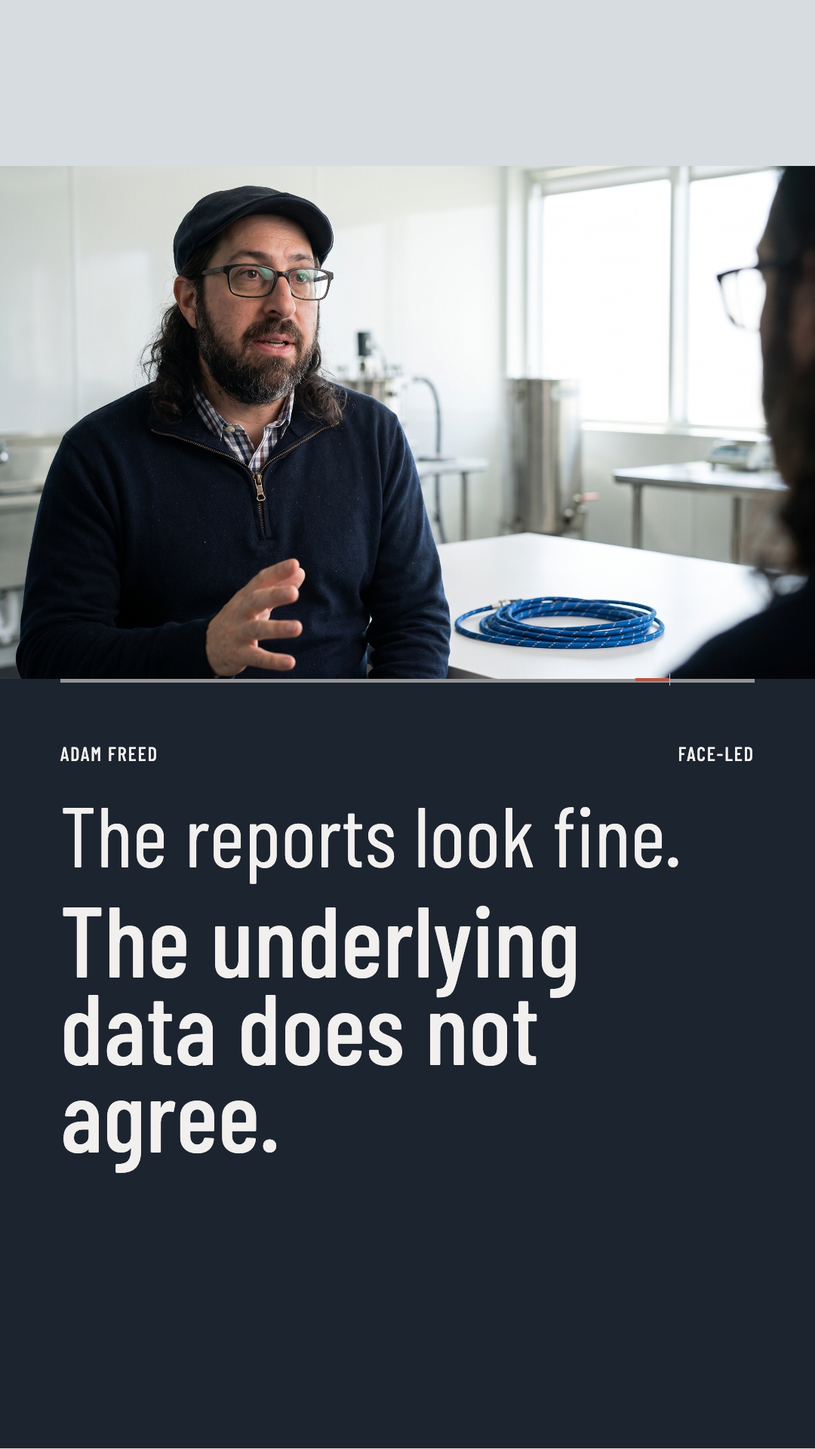
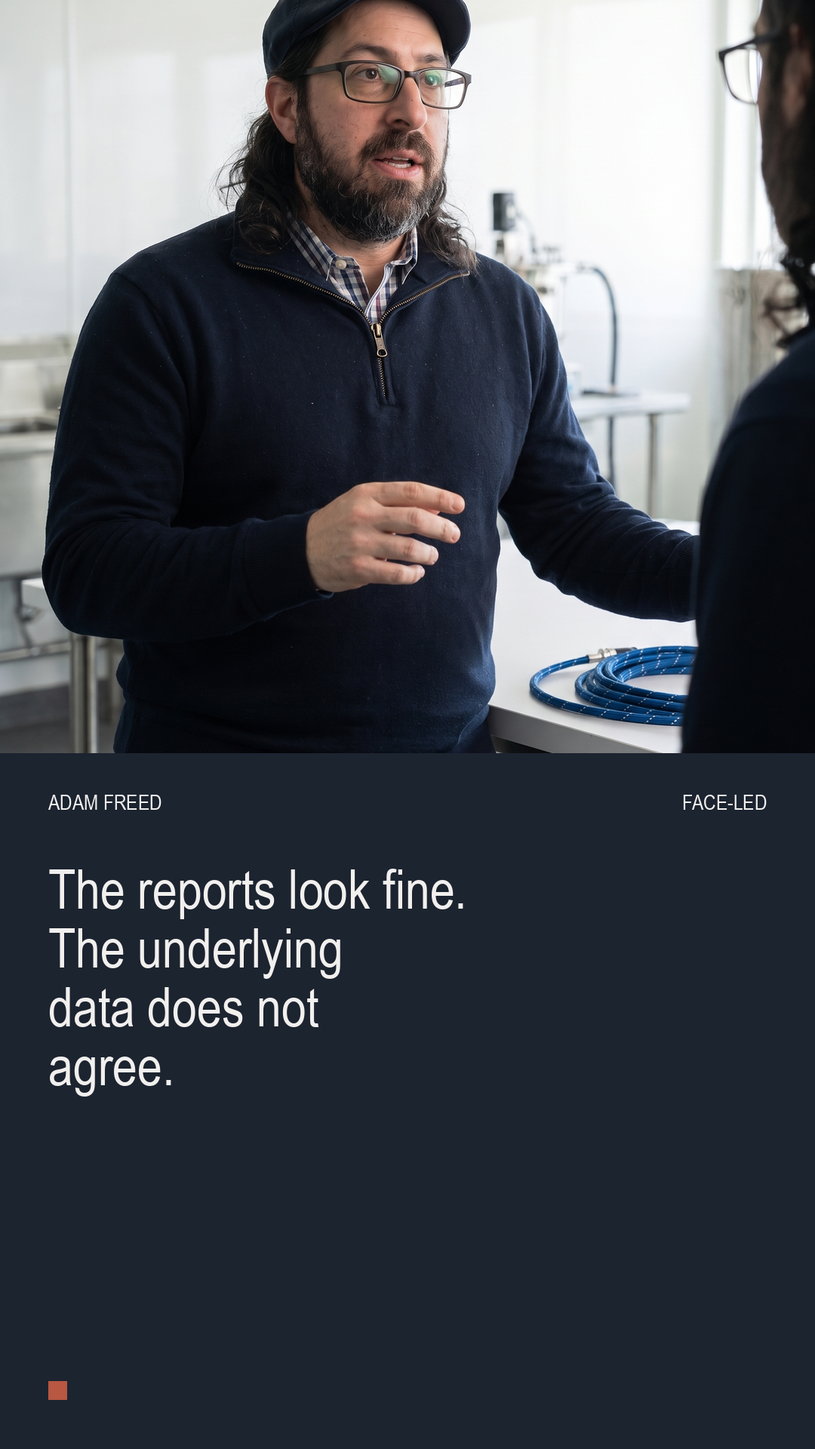
Adam Freed OS: photography range + Adam email kit
Add face-gated conversation range, rewrite Email for operator briefs, and stop recycling one hero across Website and Video.

diff --git a/adam-freed/os/application/email.html b/adam-freed/os/application/email.html
@@ -11,7 +11,7 @@
   <link rel="preconnect" href="https://fonts.gstatic.com" crossorigin>
   <link href="https://fonts.googleapis.com/css2?family=Barlow:wght@400;500;600;700&family=Barlow+Condensed:wght@400;500;600;700&display=swap" rel="stylesheet">
   <link rel="stylesheet" href="../assets/brand-therapy-os.css">
-  <link rel="stylesheet" href="../assets/adam-os.css?v=20260726">
+  <link rel="stylesheet" href="../assets/adam-os.css?v=20260726d">
   <script src="../assets/brand-therapy-os.js" defer></script>
 </head>
 <body data-page-id="C-05" data-os-url="https://brandtherapy.florianp.com/adam-freed/os/" data-context-url="https://brandtherapy.florianp.com/adam-freed/os/ai-context.md">
@@ -63,20 +63,20 @@
           </div>
         </header>
 
-        <section class="content-section content-section--visual-first" id="templates"><div class="section-headline"><p class="eyebrow">01</p><h2>Email examples</h2></div><p class="section-note">Three starters. Use the voice, then fill the brackets.</p><div class="email-gallery">
-    <article class="email-mock"><div class="email-chrome"><span>Subject: The reports look fine. The data does not.</span><span>Preview: One operator note on mismatched systems.</span></div><div class="email-body"><div class="email-masthead">Adam Freed / Operator Note 01</div><h3>The reports look fine. The data does not.</h3><p>If the source and the dashboard disagree, the work is not finished.</p><p>Start with the handoff that breaks first. Make that truth visible across every system that touches it.</p><a class="email-cta" href="#" data-confirm-links>Read the full note</a></div></article>
+        <section class="content-section content-section--visual-first" id="templates"><div class="section-headline"><p class="eyebrow">01</p><h2>Email examples</h2></div><p class="section-note">Operator brief, working session, and follow-up. Real Adam emails, not field-note theater.</p><div class="email-gallery">
+    <article class="email-mock email-mock--visual"><div class="email-chrome"><span>Subject: The reports look fine. The data does not.</span><span>Preview: One operator brief on mismatched systems.</span></div><div class="email-hero"><img src="../images/photography/email-header-crop.png" alt="Adam Freed in conversation"></div><div class="email-body"><p class="email-kicker">Adam Freed · Operator brief</p><h3>The reports look fine. The data does not.</h3><p>If the source and the dashboard disagree, the work is not finished.</p><p>Start with the handoff that breaks first. Make that truth visible across every system that touches it.</p><a class="email-cta" href="#" data-confirm-links>Read the full brief</a></div></article>
 
-    <article class="email-mock"><div class="email-chrome"><span>Subject: A working session on the numbers</span><span>Preview: Bring the reports that do not agree.</span></div><div class="email-body"><div class="email-masthead">Adam Freed / Invitation</div><h3>Bring the reports that do not agree.</h3><p>This is for founders who already suspect the dashboard is lying and want the real map.</p><p>[What we examine] · [Date] · [Who it is for]</p><a class="email-cta" href="#" data-confirm-links>Request details</a></div></article>
+    <article class="email-mock"><div class="email-chrome"><span>Subject: Working session on the numbers</span><span>Preview: Bring the reports that do not agree.</span></div><div class="email-body"><p class="email-kicker">Adam Freed · Working session</p><h3>Bring the reports that do not agree.</h3><p>For founders who already suspect the dashboard is lying and want the real map.</p><p>[What we examine] · [Date] · [Who should be in the room]</p><div class="email-inline-photo"><img src="../images/photography/reviewing-evidence.png" alt="Adam reviewing evidence"></div><a class="email-cta" href="#" data-confirm-links>Request a session</a></div></article>
 
-    <article class="email-mock"><div class="email-chrome"><span>Subject: Good talking with you</span><span>Preview: One next step from our conversation.</span></div><div class="email-body"><div class="email-masthead">Personal note</div><h3>Keep the useful part moving.</h3><p>[Name],</p><p>The break I kept thinking about was [specific handoff]. The next step I would take: [one useful action].</p><p>Adam</p></div></article>
-    </div></section><section class="content-section" id="rules"><div class="section-headline"><p class="eyebrow">02</p><h2>Keep it consistent</h2></div><div class="rule-grid"><article><h3>Subject line</h3><ul class="clean-list"><li>Clear before clever</li><li>45 characters when possible</li><li>No false urgency</li><li>No mystery bait</li></ul></article><article><h3>Body</h3><ul class="clean-list"><li>One useful idea</li><li>Short paragraphs</li><li>One specific fact or example</li><li>One clear next action</li></ul></article></div></section><section class="content-section" id="signature"><div class="section-headline"><p class="eyebrow">03</p><h2>Email signature</h2></div><p class="section-note">Copy into the inbox. No logo until a mark exists.</p>
-    <div class="signature-gallery"><div class="email-signature"><strong>Adam Freed</strong><span class="signature-role">Cannabis data and operations advisor</span><a href="https://www.freedsolutions.com">freedsolutions.com</a> · <a href="https://www.linkedin.com/in/adam-freed-60173568">LinkedIn</a></div><div class="email-signature"><strong>Adam Freed</strong><span>Cannabis data and operations advisor</span><br><a href="https://www.freedsolutions.com">freedsolutions.com</a> · <a href="https://www.linkedin.com/in/adam-freed-60173568">LinkedIn</a></div></div>
+    <article class="email-mock"><div class="email-chrome"><span>Subject: Good talking with you</span><span>Preview: One next step from our conversation.</span></div><div class="email-body"><p class="email-kicker">Personal note</p><h3>Keep the useful part moving.</h3><p>[Name],</p><p>The break I kept thinking about was [specific handoff]. The next step I would take: [one useful action].</p><p>If useful, I can send a short agenda for a working session.</p><p>Adam</p></div></article>
+    </div></section><section class="content-section" id="rules"><div class="section-headline"><p class="eyebrow">02</p><h2>Keep it consistent</h2></div><div class="rule-grid"><article><h3>Subject line</h3><ul class="clean-list"><li>Clear before clever</li><li>Name the break, not a teaser</li><li>No false urgency</li><li>No mystery bait</li></ul></article><article><h3>Body</h3><ul class="clean-list"><li>One useful idea</li><li>Short paragraphs</li><li>One specific fact or handoff</li><li>One clear next action</li></ul></article></div></section><section class="content-section" id="signature"><div class="section-headline"><p class="eyebrow">03</p><h2>Email signature</h2></div><p class="section-note">Copy into the inbox. Cobalt for links. Coral stays off the signature.</p>
+    <div class="signature-gallery"><div class="email-signature"><strong>Adam Freed</strong><span class="signature-role">Independent cannabis data and operations advisor</span><a href="https://www.freedsolutions.com">freedsolutions.com</a> · <a href="https://www.linkedin.com/in/adam-freed-60173568">LinkedIn</a></div><div class="email-signature"><strong>Adam Freed</strong><span>Independent cannabis data and operations advisor</span><br><a href="https://www.freedsolutions.com">freedsolutions.com</a> · <a href="https://www.linkedin.com/in/adam-freed-60173568">LinkedIn</a></div></div>
 
     <div class="prompt-grid"><article class="prompt-card"><h3>Full signature</h3><pre class="signature-code" id="signature-full">&lt;table role=&quot;presentation&quot; cellpadding=&quot;0&quot; cellspacing=&quot;0&quot; style=&quot;font-family:Arial,sans-serif;color:#1C2430&quot;&gt;
   &lt;tr&gt;&lt;td style=&quot;padding:0 0 6px;font-size:18px;font-weight:700&quot;&gt;Adam Freed&lt;/td&gt;&lt;/tr&gt;
-  &lt;tr&gt;&lt;td style=&quot;padding:0 0 10px;color:#B85742;font-size:12px;font-weight:700&quot;&gt;Cannabis data and operations advisor&lt;/td&gt;&lt;/tr&gt;
+  &lt;tr&gt;&lt;td style=&quot;padding:0 0 10px;color:#004DC2;font-size:12px;font-weight:700&quot;&gt;Independent cannabis data and operations advisor&lt;/td&gt;&lt;/tr&gt;
   &lt;tr&gt;&lt;td style=&quot;font-size:13px&quot;&gt;&lt;a href=&quot;https://www.freedsolutions.com&quot; style=&quot;color:#004DC2&quot;&gt;freedsolutions.com&lt;/a&gt; · &lt;a href=&quot;https://www.linkedin.com/in/adam-freed-60173568&quot; style=&quot;color:#004DC2&quot;&gt;LinkedIn&lt;/a&gt;&lt;/td&gt;&lt;/tr&gt;
-&lt;/table&gt;</pre><button class="button" type="button" data-copy-target="signature-full">Copy signature code</button> <span data-copy-result aria-live="polite"></span></article><article class="prompt-card"><h3>Compact signature</h3><pre class="signature-code" id="signature-compact">&lt;p style=&quot;font-family:Arial,sans-serif;color:#1C2430;font-size:13px;line-height:1.45&quot;&gt;&lt;strong&gt;Adam Freed&lt;/strong&gt;&lt;br&gt;Cannabis data and operations advisor&lt;br&gt;&lt;a href=&quot;https://www.freedsolutions.com&quot; style=&quot;color:#004DC2&quot;&gt;freedsolutions.com&lt;/a&gt; · &lt;a href=&quot;https://www.linkedin.com/in/adam-freed-60173568&quot; style=&quot;color:#004DC2&quot;&gt;LinkedIn&lt;/a&gt;&lt;/p&gt;</pre><button class="button" type="button" data-copy-target="signature-compact">Copy signature code</button> <span data-copy-result aria-live="polite"></span></article></div>
+&lt;/table&gt;</pre><button class="button" type="button" data-copy-target="signature-full">Copy signature code</button> <span data-copy-result aria-live="polite"></span></article><article class="prompt-card"><h3>Compact signature</h3><pre class="signature-code" id="signature-compact">&lt;p style=&quot;font-family:Arial,sans-serif;color:#1C2430;font-size:13px;line-height:1.45&quot;&gt;&lt;strong&gt;Adam Freed&lt;/strong&gt;&lt;br&gt;Independent cannabis data and operations advisor&lt;br&gt;&lt;a href=&quot;https://www.freedsolutions.com&quot; style=&quot;color:#004DC2&quot;&gt;freedsolutions.com&lt;/a&gt; · &lt;a href=&quot;https://www.linkedin.com/in/adam-freed-60173568&quot; style=&quot;color:#004DC2&quot;&gt;LinkedIn&lt;/a&gt;&lt;/p&gt;</pre><button class="button" type="button" data-copy-target="signature-compact">Copy signature code</button> <span data-copy-result aria-live="polite"></span></article></div>
     </section>
 
         <nav class="previous-next" aria-label="Previous and next pages"><a href="website-ux.html" data-direction="previous"><small>Previous page</small><strong>Website</strong></a></nav>

diff --git a/adam-freed/os/identity/personal-branding.html b/adam-freed/os/identity/personal-branding.html
@@ -11,7 +11,7 @@
   <link rel="preconnect" href="https://fonts.gstatic.com" crossorigin>
   <link href="https://fonts.googleapis.com/css2?family=Barlow:wght@400;500;600;700&family=Barlow+Condensed:wght@400;500;600;700&display=swap" rel="stylesheet">
   <link rel="stylesheet" href="../assets/brand-therapy-os.css">
-  <link rel="stylesheet" href="../assets/adam-os.css?v=20260726">
+  <link rel="stylesheet" href="../assets/adam-os.css?v=20260726d">
   <script src="../assets/brand-therapy-os.js" defer></script>
 </head>
 <body data-page-id="B-06" data-os-url="https://brandtherapy.florianp.com/adam-freed/os/" data-context-url="https://brandtherapy.florianp.com/adam-freed/os/ai-context.md">
@@ -63,7 +63,7 @@
           </div>
         </header>
 
-        <details class="page-toc" data-page-toc open><summary><strong>On this page</strong></summary><ol><li><a href="#presence">How Adam shows up</a></li><li><a href="#character-sheet">Character Sheet</a></li><li><a href="#use">How to use it</a></li></ol></details><section class="content-section" id="presence"><div class="section-headline"><p class="eyebrow">01</p><h2>How Adam shows up</h2></div><div class="principle-grid"><article><h3>Presence</h3><p>Calm operator peer energy. Present in the room, exact, lightly witty.</p></article><article><h3>Wardrobe</h3><p>Primary Direction 2 operator outfit locked; bizcasual is alternate only.</p></article><article><h3>Behavior</h3><p>Do the work: explain, listen, review evidence, hand off a finding.</p></article><article><h3>Aesthetic</h3><p>Bright Paper White operations world with Cable Cobalt connection cues.</p></article></div></section><section class="content-section" id="character-sheet"><div class="section-headline"><p class="eyebrow">02</p><h2>Character Sheet</h2></div><div class="character-sheet"><figure class="character-board character-board--face"><img src="../images/likeness/adam-freed-v1-anchor.png" alt="Adam face canon"><figcaption>Face canon. Keep eye line and hat line consistent across angles.</figcaption></figure><div class="character-sheet__outfits"><figure class="character-board character-board--outfit"><img src="../images/likeness/adam-freed-fullbody-primary.png" alt="Primary operator outfit"><figcaption>Primary operator outfit</figcaption></figure><figure class="character-board character-board--outfit"><img src="../images/likeness/adam-freed-fullbody-bizcasual.png" alt="Alternate outfit reference"><figcaption>Alternate outfit. Use only when separately requested.</figcaption></figure></div></div></section><section class="content-section" id="use"><div class="section-headline"><p class="eyebrow">03</p><h2>How to use it</h2></div><ul class="clean-list"><li>Use the approved face canon for any recognizable Adam image</li><li>Default to the navy quarter-zip operator outfit</li><li>Show Adam in conversation or work with operators</li><li>Never upload the temporary stylescape as a likeness seed</li></ul></section>
+        <details class="page-toc" data-page-toc open><summary><strong>On this page</strong></summary><ol><li><a href="#presence">How Adam shows up</a></li><li><a href="#character-sheet">Character Sheet</a></li><li><a href="#photography">Photography range</a></li><li><a href="#use">How to use it</a></li></ol></details><section class="content-section" id="presence"><div class="section-headline"><p class="eyebrow">01</p><h2>How Adam shows up</h2></div><div class="principle-grid"><article><h3>Presence</h3><p>Calm operator peer energy. Present in the room, exact, lightly witty.</p></article><article><h3>Wardrobe</h3><p>Primary Direction 2 operator outfit locked; bizcasual is alternate only.</p></article><article><h3>Behavior</h3><p>Do the work: explain, listen, review evidence, hand off a finding.</p></article><article><h3>Aesthetic</h3><p>Bright Paper White operations world with Cable Cobalt connection cues.</p></article></div></section><section class="content-section" id="character-sheet"><div class="section-headline"><p class="eyebrow">02</p><h2>Character Sheet</h2></div><div class="character-sheet"><figure class="character-board character-board--face"><img src="../images/likeness/adam-freed-v1-anchor.png" alt="Adam face canon"><figcaption>Face canon. Keep eye line and hat line consistent across angles.</figcaption></figure><div class="character-sheet__outfits"><figure class="character-board character-board--outfit"><img src="../images/likeness/adam-freed-fullbody-primary.png" alt="Primary operator outfit"><figcaption>Primary operator outfit</figcaption></figure><figure class="character-board character-board--outfit"><img src="../images/likeness/adam-freed-fullbody-bizcasual.png" alt="Alternate outfit reference"><figcaption>Alternate outfit. Use only when separately requested.</figcaption></figure></div></div></section><section class="content-section content-section--visual-first" id="photography"><div class="section-headline"><p class="eyebrow">03</p><h2>Photography range</h2></div><p class="section-note">Approved face-gated scenes. Same man, different jobs.</p><div class="photo-range-grid"><figure class="example-card"><img src="../images/identity/adam-freed-direction-2-hd-hero-gate4-candidate.png" alt="Adam Operator conversation"><figcaption><strong>Operator conversation</strong> Primary identity hero. Adam mid-explanation with an operator.</figcaption></figure><figure class="example-card"><img src="../images/photography/listening-across-table.png" alt="Adam Listening"><figcaption><strong>Listening</strong> Attentive across the table. Use when the brief is intake or diagnosis.</figcaption></figure><figure class="example-card"><img src="../images/photography/corridor-handoff.png" alt="Adam Handoff"><figcaption><strong>Handoff</strong> Clipboard and corridor. Use when truth moves between people.</figcaption></figure><figure class="example-card"><img src="../images/photography/reviewing-evidence.png" alt="Adam Evidence review"><figcaption><strong>Evidence review</strong> Papers on the table. Use for findings and working sessions.</figcaption></figure><figure class="example-card"><img src="../images/photography/walk-talk-floor.png" alt="Adam Walk and talk"><figcaption><strong>Walk and talk</strong> Production floor conversation. Use for operational context.</figcaption></figure><figure class="example-card"><img src="../images/photography/speaking-context-portrait.png" alt="Adam Speaking crop"><figcaption><strong>Speaking crop</strong> Portrait-in-context for video and social photo variants.</figcaption></figure></div></section><section class="content-section" id="use"><div class="section-headline"><p class="eyebrow">04</p><h2>How to use it</h2></div><ul class="clean-list"><li>Use the approved face canon for any recognizable Adam image</li><li>Pick from the photography range. Do not recycle one hero for every surface</li><li>Default to the navy quarter-zip operator outfit</li><li>Show Adam in conversation or work with operators</li><li>Never upload the temporary stylescape as a likeness seed</li></ul></section>
 
         <nav class="previous-next" aria-label="Previous and next pages"><a href="voice.html" data-direction="previous"><small>Previous page</small><strong>Voice and Writing</strong></a><a href="../application/index.html" data-direction="next"><small>Next page</small><strong>Applications Overview</strong></a></nav>
       </article>

diff --git a/adam-freed/os/application/website-ux.html b/adam-freed/os/application/website-ux.html
@@ -11,7 +11,7 @@
   <link rel="preconnect" href="https://fonts.gstatic.com" crossorigin>
   <link href="https://fonts.googleapis.com/css2?family=Barlow:wght@400;500;600;700&family=Barlow+Condensed:wght@400;500;600;700&display=swap" rel="stylesheet">
   <link rel="stylesheet" href="../assets/brand-therapy-os.css">
-  <link rel="stylesheet" href="../assets/adam-os.css?v=20260726">
+  <link rel="stylesheet" href="../assets/adam-os.css?v=20260726d">
   <script src="../assets/brand-therapy-os.js" defer></script>
 </head>
 <body data-page-id="C-04" data-os-url="https://brandtherapy.florianp.com/adam-freed/os/" data-context-url="https://brandtherapy.florianp.com/adam-freed/os/ai-context.md">
@@ -64,10 +64,10 @@
         </header>
 
         <section class="content-section content-section--visual-first" id="desktop"><div class="section-headline"><p class="eyebrow">01</p><h2>Homepage</h2></div><p class="section-note">How the brand should feel on the web.</p>
-    <div class="site-prototype"><div class="site-browser-bar"><i></i><i></i><i></i><span>freedsolutions.com</span></div><div class="site-home"><div class="site-home-copy"><nav class="site-nav"><strong>Adam Freed</strong><span>Advisory&nbsp;&nbsp; Writing&nbsp;&nbsp; Contact</span></nav><div><p class="asset-kicker">On Speaking Terms</p><h3 class="site-display">Get the systems talking.</h3><p>Independent cannabis data and operations advisory for founders who want numbers they can trust.</p></div><span>Start a conversation</span></div><div class="site-home-image"><img src="../images/identity/adam-freed-direction-2-hd-hero-gate4-candidate.png" alt="Adam Freed website hero"></div></div></div>
+    <div class="site-prototype"><div class="site-browser-bar"><i></i><i></i><i></i><span>freedsolutions.com</span></div><div class="site-home"><div class="site-home-copy"><nav class="site-nav"><strong>Adam Freed</strong><span>Advisory&nbsp;&nbsp; Writing&nbsp;&nbsp; Contact</span></nav><div><p class="asset-kicker">On Speaking Terms</p><h3 class="site-display">Get the systems talking.</h3><p>Independent cannabis data and operations advisory for founders who want numbers they can trust.</p></div><span>Start a conversation</span></div><div class="site-home-image"><img src="../images/photography/website-wide-conversation.png" alt="Adam Freed website hero"></div></div></div>
     </section><section class="content-section" id="mobile"><div class="section-headline"><p class="eyebrow">02</p><h2>Mobile</h2></div>
-    <div class="mobile-prototype"><img src="../images/identity/adam-freed-direction-2-hd-hero-gate4-candidate.png" alt="Adam Freed in conversation" style="object-position:center top"><div class="mobile-prototype-copy"><p class="asset-kicker">Freed Solutions</p><h3>Get the systems talking.</h3><p>Data Integrity for founder-led cannabis teams.</p></div></div>
-    </section><section class="content-section" id="keep"><div class="section-headline"><p class="eyebrow">03</p><h2>Keep it consistent</h2></div><div class="rule-grid"><article><h3>Keep</h3><ul class="clean-list"><li>One thesis above the fold</li><li>Adam in conversation, not a solitary founder portrait</li><li>Paper White field, Cable Cobalt accent, Barlow Condensed headlines</li><li>One clear next action</li></ul></article><article><h3>Avoid</h3><ul class="clean-list"><li>Dashboard theater or code screens as the hero</li><li>Cannabis lifestyle or leaf motifs</li><li>Generic consultant stock</li><li>More than one primary CTA on the first screen</li></ul></article></div></section>
+    <div class="mobile-prototype"><img src="../images/photography/speaking-context-portrait.png" alt="Adam Freed in conversation" style="object-position:center top"><div class="mobile-prototype-copy"><p class="asset-kicker">Freed Solutions</p><h3>Get the systems talking.</h3><p>Data Integrity for founder-led cannabis teams.</p></div></div>
+    </section><section class="content-section" id="keep"><div class="section-headline"><p class="eyebrow">03</p><h2>Keep it consistent</h2></div><div class="rule-grid"><article><h3>Keep</h3><ul class="clean-list"><li>One thesis above the fold</li><li>Rotate approved photography. Do not reuse one crop everywhere</li><li>Adam in conversation, not a solitary founder portrait</li><li>Paper White field, Cable Cobalt accent, Barlow Condensed headlines</li><li>One clear next action</li></ul></article><article><h3>Avoid</h3><ul class="clean-list"><li>Dashboard theater or code screens as the hero</li><li>Cannabis lifestyle or leaf motifs</li><li>Generic consultant stock</li><li>More than one primary CTA on the first screen</li></ul></article></div></section>
 
         <nav class="previous-next" aria-label="Previous and next pages"><a href="video-covers.html" data-direction="previous"><small>Previous page</small><strong>Video Covers</strong></a><a href="email.html" data-direction="next"><small>Next page</small><strong>Email</strong></a></nav>
       </article>

diff --git a/adam-freed/os/assets/adam-os.css b/adam-freed/os/assets/adam-os.css
@@ -417,7 +417,7 @@
   min-height: 36rem;
   color: #1C2430;
   border: 1px solid var(--line);
-  background: #F2F0EE;
+  background: #FAFAF8;
 }
 
 .email-chrome {
@@ -426,34 +426,66 @@
   padding: 1rem;
   color: #4e5660;
   border-bottom: 1px solid var(--line);
-  background: #E8E4E0;
+  background: #F2F0EE;
   font-size: 0.72rem;
 }
 
-.email-body {
-  padding: 2rem;
+.email-hero {
+  aspect-ratio: 21 / 9;
+  overflow: hidden;
+  background: #E8E4E0;
 }
 
-.email-masthead {
-  padding-bottom: 1.5rem;
-  color: #1C2430;
-  border-bottom: 0.25rem solid #B85742;
-  font-family: "Barlow Condensed", "Arial Narrow", sans-serif;
-  font-size: 1.4rem;
+.email-hero img {
+  display: block;
+  width: 100%;
+  height: 100%;
+  object-fit: cover;
+  object-position: center 30%;
+}
+
+.email-inline-photo {
+  margin: 1.25rem 0 0.25rem;
+  aspect-ratio: 16 / 9;
+  overflow: hidden;
+  background: #E8E4E0;
+}
+
+.email-inline-photo img {
+  display: block;
+  width: 100%;
+  height: 100%;
+  object-fit: cover;
+  object-position: center 25%;
+}
+
+.email-body {
+  padding: 1.6rem 1.75rem 2rem;
+}
+
+.email-kicker {
+  margin: 0 0 0.85rem;
+  color: #004DC2;
+  font-family: "Barlow", sans-serif;
+  font-size: 0.72rem;
+  font-weight: 700;
+  letter-spacing: 0.04em;
   text-transform: uppercase;
 }
 
 .email-body h3 {
-  margin: 2.4rem 0 1rem;
+  margin: 0 0 1rem;
   font-family: "Barlow Condensed", "Arial Narrow", sans-serif;
-  font-size: 2.6rem;
-  font-weight: 400;
-  line-height: 0.95;
-  text-transform: uppercase;
+  font-size: 2.1rem;
+  font-weight: 500;
+  line-height: 1.02;
+  text-transform: none;
+  color: #1C2430;
 }
 
 .email-body p {
   font-size: 0.9rem;
+  line-height: 1.45;
 }
 
 .email-cta {
@@ -461,10 +493,22 @@
   margin-top: 1rem;
   padding: 0.75rem 1rem;
   color: #F2F0EE;
-  background: #1C2430;
+  background: #004DC2;
   font-size: 0.78rem;
   font-weight: 700;
   text-decoration: none;
+}
+
+.photo-range-grid {
+  display: grid;
+  grid-template-columns: repeat(3, minmax(12rem, 1fr));
+  gap: 1rem;
+}
+
+@media (max-width: 900px) {
+  .photo-range-grid {
+    grid-template-columns: repeat(2, minmax(10rem, 1fr));
+  }
 }
 
 .signature-gallery {
@@ -490,7 +534,7 @@
 .email-signature .signature-role {
   display: block;
   margin: 0.2rem 0 1rem;
-  color: #B85742;
+  color: #004DC2;
   font-size: 0.78rem;
   font-weight: 700;
 }

diff --git a/adam-freed/os/application/index.html b/adam-freed/os/application/index.html
@@ -11,7 +11,7 @@
   <link rel="preconnect" href="https://fonts.gstatic.com" crossorigin>
   <link href="https://fonts.googleapis.com/css2?family=Barlow:wght@400;500;600;700&family=Barlow+Condensed:wght@400;500;600;700&display=swap" rel="stylesheet">
   <link rel="stylesheet" href="../assets/brand-therapy-os.css">
-  <link rel="stylesheet" href="../assets/adam-os.css?v=20260726">
+  <link rel="stylesheet" href="../assets/adam-os.css?v=20260726d">
   <script src="../assets/brand-therapy-os.js" defer></script>
 </head>
 <body data-page-id="C-00" data-os-url="https://brandtherapy.florianp.com/adam-freed/os/" data-context-url="https://brandtherapy.florianp.com/adam-freed/os/ai-context.md">

diff --git a/adam-freed/os/application/social.html b/adam-freed/os/application/social.html
@@ -11,7 +11,7 @@
   <link rel="preconnect" href="https://fonts.gstatic.com" crossorigin>
   <link href="https://fonts.googleapis.com/css2?family=Barlow:wght@400;500;600;700&family=Barlow+Condensed:wght@400;500;600;700&display=swap" rel="stylesheet">
   <link rel="stylesheet" href="../assets/brand-therapy-os.css">
-  <link rel="stylesheet" href="../assets/adam-os.css?v=20260726">
+  <link rel="stylesheet" href="../assets/adam-os.css?v=20260726d">
   <script src="../assets/brand-therapy-os.js" defer></script>
 </head>
 <body data-page-id="C-02" data-os-url="https://brandtherapy.florianp.com/adam-freed/os/" data-context-url="https://brandtherapy.florianp.com/adam-freed/os/ai-context.md">

diff --git a/adam-freed/os/application/video-covers.html b/adam-freed/os/application/video-covers.html
@@ -11,7 +11,7 @@
   <link rel="preconnect" href="https://fonts.gstatic.com" crossorigin>
   <link href="https://fonts.googleapis.com/css2?family=Barlow:wght@400;500;600;700&family=Barlow+Condensed:wght@400;500;600;700&display=swap" rel="stylesheet">
   <link rel="stylesheet" href="../assets/brand-therapy-os.css">
-  <link rel="stylesheet" href="../assets/adam-os.css?v=20260726">
+  <link rel="stylesheet" href="../assets/adam-os.css?v=20260726d">
   <script src="../assets/brand-therapy-os.js" defer></script>
 </head>
 <body data-page-id="C-03" data-os-url="https://brandtherapy.florianp.com/adam-freed/os/" data-context-url="https://brandtherapy.florianp.com/adam-freed/os/ai-context.md">

diff --git a/adam-freed/os/identity/index.html b/adam-freed/os/identity/index.html
@@ -11,7 +11,7 @@
   <link rel="preconnect" href="https://fonts.gstatic.com" crossorigin>
   <link href="https://fonts.googleapis.com/css2?family=Barlow:wght@400;500;600;700&family=Barlow+Condensed:wght@400;500;600;700&display=swap" rel="stylesheet">
   <link rel="stylesheet" href="../assets/brand-therapy-os.css">
-  <link rel="stylesheet" href="../assets/adam-os.css?v=20260726">
+  <link rel="stylesheet" href="../assets/adam-os.css?v=20260726d">
   <script src="../assets/brand-therapy-os.js" defer></script>
 </head>
 <body data-page-id="B-01" data-os-url="https://brandtherapy.florianp.com/adam-freed/os/" data-context-url="https://brandtherapy.florianp.com/adam-freed/os/ai-context.md">

diff --git a/adam-freed/os/identity/logo.html b/adam-freed/os/identity/logo.html
@@ -11,7 +11,7 @@
   <link rel="preconnect" href="https://fonts.gstatic.com" crossorigin>
   <link href="https://fonts.googleapis.com/css2?family=Barlow:wght@400;500;600;700&family=Barlow+Condensed:wght@400;500;600;700&display=swap" rel="stylesheet">
   <link rel="stylesheet" href="../assets/brand-therapy-os.css">
-  <link rel="stylesheet" href="../assets/adam-os.css?v=20260726">
+  <link rel="stylesheet" href="../assets/adam-os.css?v=20260726d">
   <script src="../assets/brand-therapy-os.js" defer></script>
 </head>
 <body data-page-id="B-03" data-os-url="https://brandtherapy.florianp.com/adam-freed/os/" data-context-url="https://brandtherapy.florianp.com/adam-freed/os/ai-context.md">

diff --git a/adam-freed/os/identity/signature.html b/adam-freed/os/identity/signature.html
@@ -11,7 +11,7 @@
   <link rel="preconnect" href="https://fonts.gstatic.com" crossorigin>
   <link href="https://fonts.googleapis.com/css2?family=Barlow:wght@400;500;600;700&family=Barlow+Condensed:wght@400;500;600;700&display=swap" rel="stylesheet">
   <link rel="stylesheet" href="../assets/brand-therapy-os.css">
-  <link rel="stylesheet" href="../assets/adam-os.css?v=20260726">
+  <link rel="stylesheet" href="../assets/adam-os.css?v=20260726d">
   <script src="../assets/brand-therapy-os.js" defer></script>
 </head>
 <body data-page-id="B-04" data-os-url="https://brandtherapy.florianp.com/adam-freed/os/" data-context-url="https://brandtherapy.florianp.com/adam-freed/os/ai-context.md">

diff --git a/adam-freed/os/identity/visual-rules.html b/adam-freed/os/identity/visual-rules.html
@@ -11,7 +11,7 @@
   <link rel="preconnect" href="https://fonts.gstatic.com" crossorigin>
   <link href="https://fonts.googleapis.com/css2?family=Barlow:wght@400;500;600;700&family=Barlow+Condensed:wght@400;500;600;700&display=swap" rel="stylesheet">
   <link rel="stylesheet" href="../assets/brand-therapy-os.css">
-  <link rel="stylesheet" href="../assets/adam-os.css?v=20260726">
+  <link rel="stylesheet" href="../assets/adam-os.css?v=20260726d">
   <script src="../assets/brand-therapy-os.js" defer></script>
 </head>
 <body data-page-id="B-02" data-os-url="https://brandtherapy.florianp.com/adam-freed/os/" data-context-url="https://brandtherapy.florianp.com/adam-freed/os/ai-context.md">

diff --git a/adam-freed/os/identity/voice.html b/adam-freed/os/identity/voice.html
@@ -11,7 +11,7 @@
   <link rel="preconnect" href="https://fonts.gstatic.com" crossorigin>
   <link href="https://fonts.googleapis.com/css2?family=Barlow:wght@400;500;600;700&family=Barlow+Condensed:wght@400;500;600;700&display=swap" rel="stylesheet">
   <link rel="stylesheet" href="../assets/brand-therapy-os.css">
-  <link rel="stylesheet" href="../assets/adam-os.css?v=20260726">
+  <link rel="stylesheet" href="../assets/adam-os.css?v=20260726d">
   <script src="../assets/brand-therapy-os.js" defer></script>
 </head>
 <body data-page-id="B-05" data-os-url="https://brandtherapy.florianp.com/adam-freed/os/" data-context-url="https://brandtherapy.florianp.com/adam-freed/os/ai-context.md">
